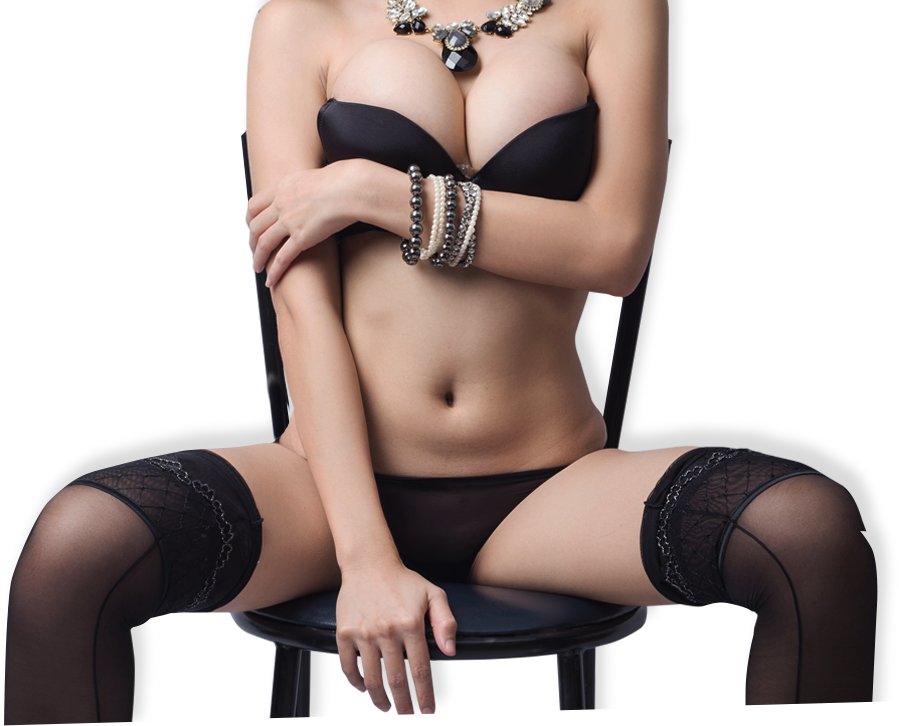
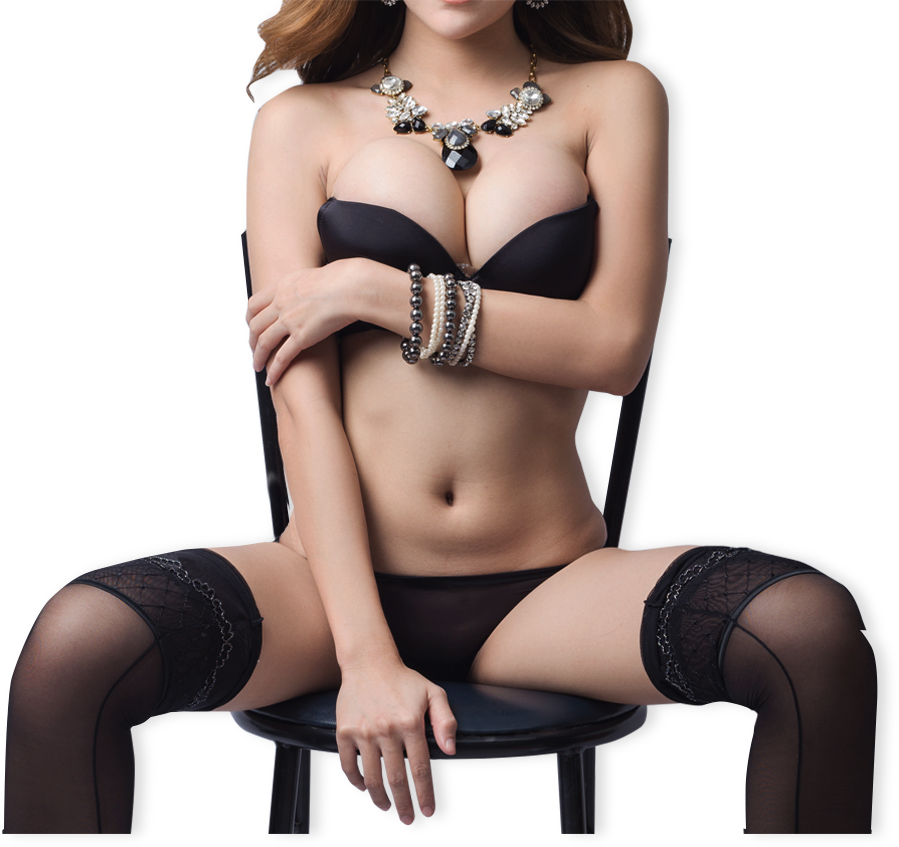
relayouted header (added before and after divs)

diff --git a/source/style/common/A_header.scss b/source/style/common/A_header.scss
@@ -1,35 +1,36 @@
 .header {
-	min-height: 700px;
-	// background-image: url(../img/header__bg.jpg);
+	// min-height: 700px;
+	
+	background-image: url(../img/header__bg.jpg);
 	background-repeat: no-repeat;
-	background-position: 50% 0;
+	background-position: 49% -24px;
 	// margin-bottom: 40px;
 	margin-bottom: 300px;
 	position: relative;
 	z-index: 0;
-	&__bg {
-		width: 3000px;
-		height: 107.3%;
-		position: absolute;
-		left: calc(50% + 152px);
-		top: -40px;
-		z-index: -2;
-		transform: translateX(-50%) rotate(-1.5deg);
-		overflow: hidden;
-		&::before {
-			content: '';
-			display: block;
-			position: absolute;
-			width: 100%;
-			height: 100%;
-			background-image:url(../img/bg-sign.png), url(../img/header__bg.jpg);
-			background-repeat: no-repeat;
-			background-position: calc(50% - 110px) 0, calc(50% - 142px) -26px;
-			left: 0;
-			bottom: -40px;
-			transform: rotate(1.5deg);
-		}
-	}
+	.after {
+	    width: 110%;
+	    height: 100px;
+	    position: absolute;
+	     bottom: -27px;
+	    transform: rotate(-1.6deg);
+	    left: 0;
+	    overflow:  hidden;
+
+	  }
+	  .after::before {
+	    height: 150%;
+	    width: 150%;
+	    top: -50px;
+	    left: 0;
+	     content: '';
+	    display: block;
+	    position: absolute;
+	    background-image: url(../img/pattern.png);
+	    background-position: 0 -7px;
+	    transform: rotate(1deg);
+	   
+	  }
 	&__top {
 		display: flex;
 		justify-content: space-between;
@@ -127,6 +128,7 @@
 	&__content {
 		display: flex;
 		justify-content: space-between;
+		padding-bottom: 167px;
 	}
 	&__title {
 		font-size: 65px;
@@ -209,16 +211,29 @@
     	left: 19px;
     	width: 300px;
     	align-self: flex-start;
+    	z-index: 2;
     	img {
     		width: 100%;
     		height: auto;
     	}
 	}
+	&__img {
+		overflow: hidden;
+  	height: 830px;
+
+    width: 899px;
+    position: absolute;
+    top: -99px;
+    left: calc(50% + 22px);
+	transform: translateX(-50%);
+	z-index: -1;
+	}
 	&__woman {
 		height: auto;
-		width: 899px;
-		position: absolute;
-		left: calc(50% + 23px);
+	    width: 899px;
+	    position: absolute;
+	    
+	    left: 50%;
 		transform: translateX(-50%);
 		z-index: -1;
 	}
@@ -240,6 +255,9 @@
   	}
   	.nav {
   		max-width: 265px;
+  	}
+  	&__content {
+  		padding-bottom: 56px;
   	}
   	&__title {
   		font-size: 60px;
@@ -267,12 +285,16 @@
   	}
   	&__prod {
 		width: 250px;
-		top: 150px;
+		top: 124px;
   	}
-	&__woman {
-		top: 0;
-		width: 800px;
-	}
+  	&__img {
+		height: 640px;
+		width: 700px;
+		top: -63px;
+  	}
+  	&__woman {
+  		max-width: 100%;
+  	}
   }
 }
 @media screen and (max-width: 1023px){
@@ -281,7 +303,7 @@
 		background-size: cover;
 		background-position: 0 0;
 		min-height: auto;
-		&__bg {
+		.after {
 			display: none;
 		}
 		&__top {
@@ -291,6 +313,7 @@
 			flex-wrap: wrap;
 			position: relative;
 			align-items: center;
+			padding-bottom: 0;
 		}
 		&__title {
 			font-size: 56px;
@@ -339,6 +362,8 @@
 		}
 		&__content {
 			justify-content: space-around;
+			flex-direction: column;
+			align-items: center;
 		}
 		&__title {
 			font-size: 50px;
@@ -361,6 +386,15 @@
 			br {
 				display: none;
 			}
+		}
+		&__prod {
+			position: static;
+			align-self: center;
+			transform: none;
+			margin-top: 22px;
+		}
+		.form {
+			align-self: center;
 		}
 	}
 }

diff --git a/source/style/common/H_header-bottom.scss b/source/style/common/H_header-bottom.scss
@@ -1,9 +1,69 @@
 section.header {
-	.form {
-		&::after {
-			display: block;
-		}
+	padding-bottom: 100px;
+	.before {
+		 width: 100%;
+    height: 100px;
+    position: absolute;
+     top: -39px;
+    transform: rotate(-1deg);
+    left: 0;
+    overflow:  hidden;
 	}
+  .before::before {
+	  content: '';
+	  display: block;
+	  position: absolute;
+	  width: 110%;
+	  height: 100px;
+	  background-image: url(../img/pattern.png);
+	  background-position: 0 0;
+	  top: -39px;
+	  transform: rotate(-1deg);
+	  left: 0;
+ 	} 
+  .after {
+    width: 100%;
+    height: 100px;
+    position: absolute;
+     bottom: -30px;
+    transform: rotate(-1.6deg);
+    left: 0;
+    overflow:  hidden;
+  }
+  .after::before {
+    height: 150%;
+    width: 150%;
+    top: -50px;
+    left: 0;
+     content: '';
+    display: block;
+    position: absolute;
+    background-image: url(../img/pattern.png);
+    background-position: 0 -7px;
+    transform: rotate(1deg);
+  }
+  .header__img {
+  	overflow: hidden;
+  	height: 774px;
+
+    width: 899px;
+    position: absolute;
+    top: auto;
+    bottom: 0;
+    left: calc(50% + 22px);
+	transform: translateX(-50%) rotate(-2deg);
+	z-index: -1;
+  }
+  .header__woman {
+  	position: absolute;
+  	top: auto;
+  	bottom: 0;
+  }
+  .form {
+	&::after {
+		display: block;
+	}
+  }
 }
 @media screen and (max-width: 1190px){
   

diff --git a/source/template/common/H_header-bottom.html b/source/template/common/H_header-bottom.html
@@ -1,7 +1,9 @@
 <section class="header block">
+	<div class="before"></div>
 	<div class="container">
-		<img class="header__woman" src="./img/header__woman.png" alt="">
-		<div class="header__bg"></div>
+		<div class="header__img">
+			<img class="header__woman" src="./img/header__woman.png" alt="">
+		</div>
 		<div class="header__top">
 			<div class="logo">
 				<div class="logo__sign">
@@ -175,4 +177,5 @@
 			</div>
 		</div>
 	</div>
+	<div class="after"></div>
 </section>

diff --git a/source/template/common/A_header.html b/source/template/common/A_header.html
@@ -1,7 +1,8 @@
 <header class="header block">
 	<div class="container">
-		<img class="header__woman" src="./img/header__woman.png" alt="">
-		<div class="header__bg"></div>
+		<div class="header__img">
+			<img class="header__woman" src="./img/header__woman.png" alt="">
+		</div>
 		<div class="header__top">
 			<div class="logo">
 				<div class="logo__sign">
@@ -172,4 +173,5 @@
 			</div>
 		</div>
 	</div>
+	<div class="after"></div>
 </header>
